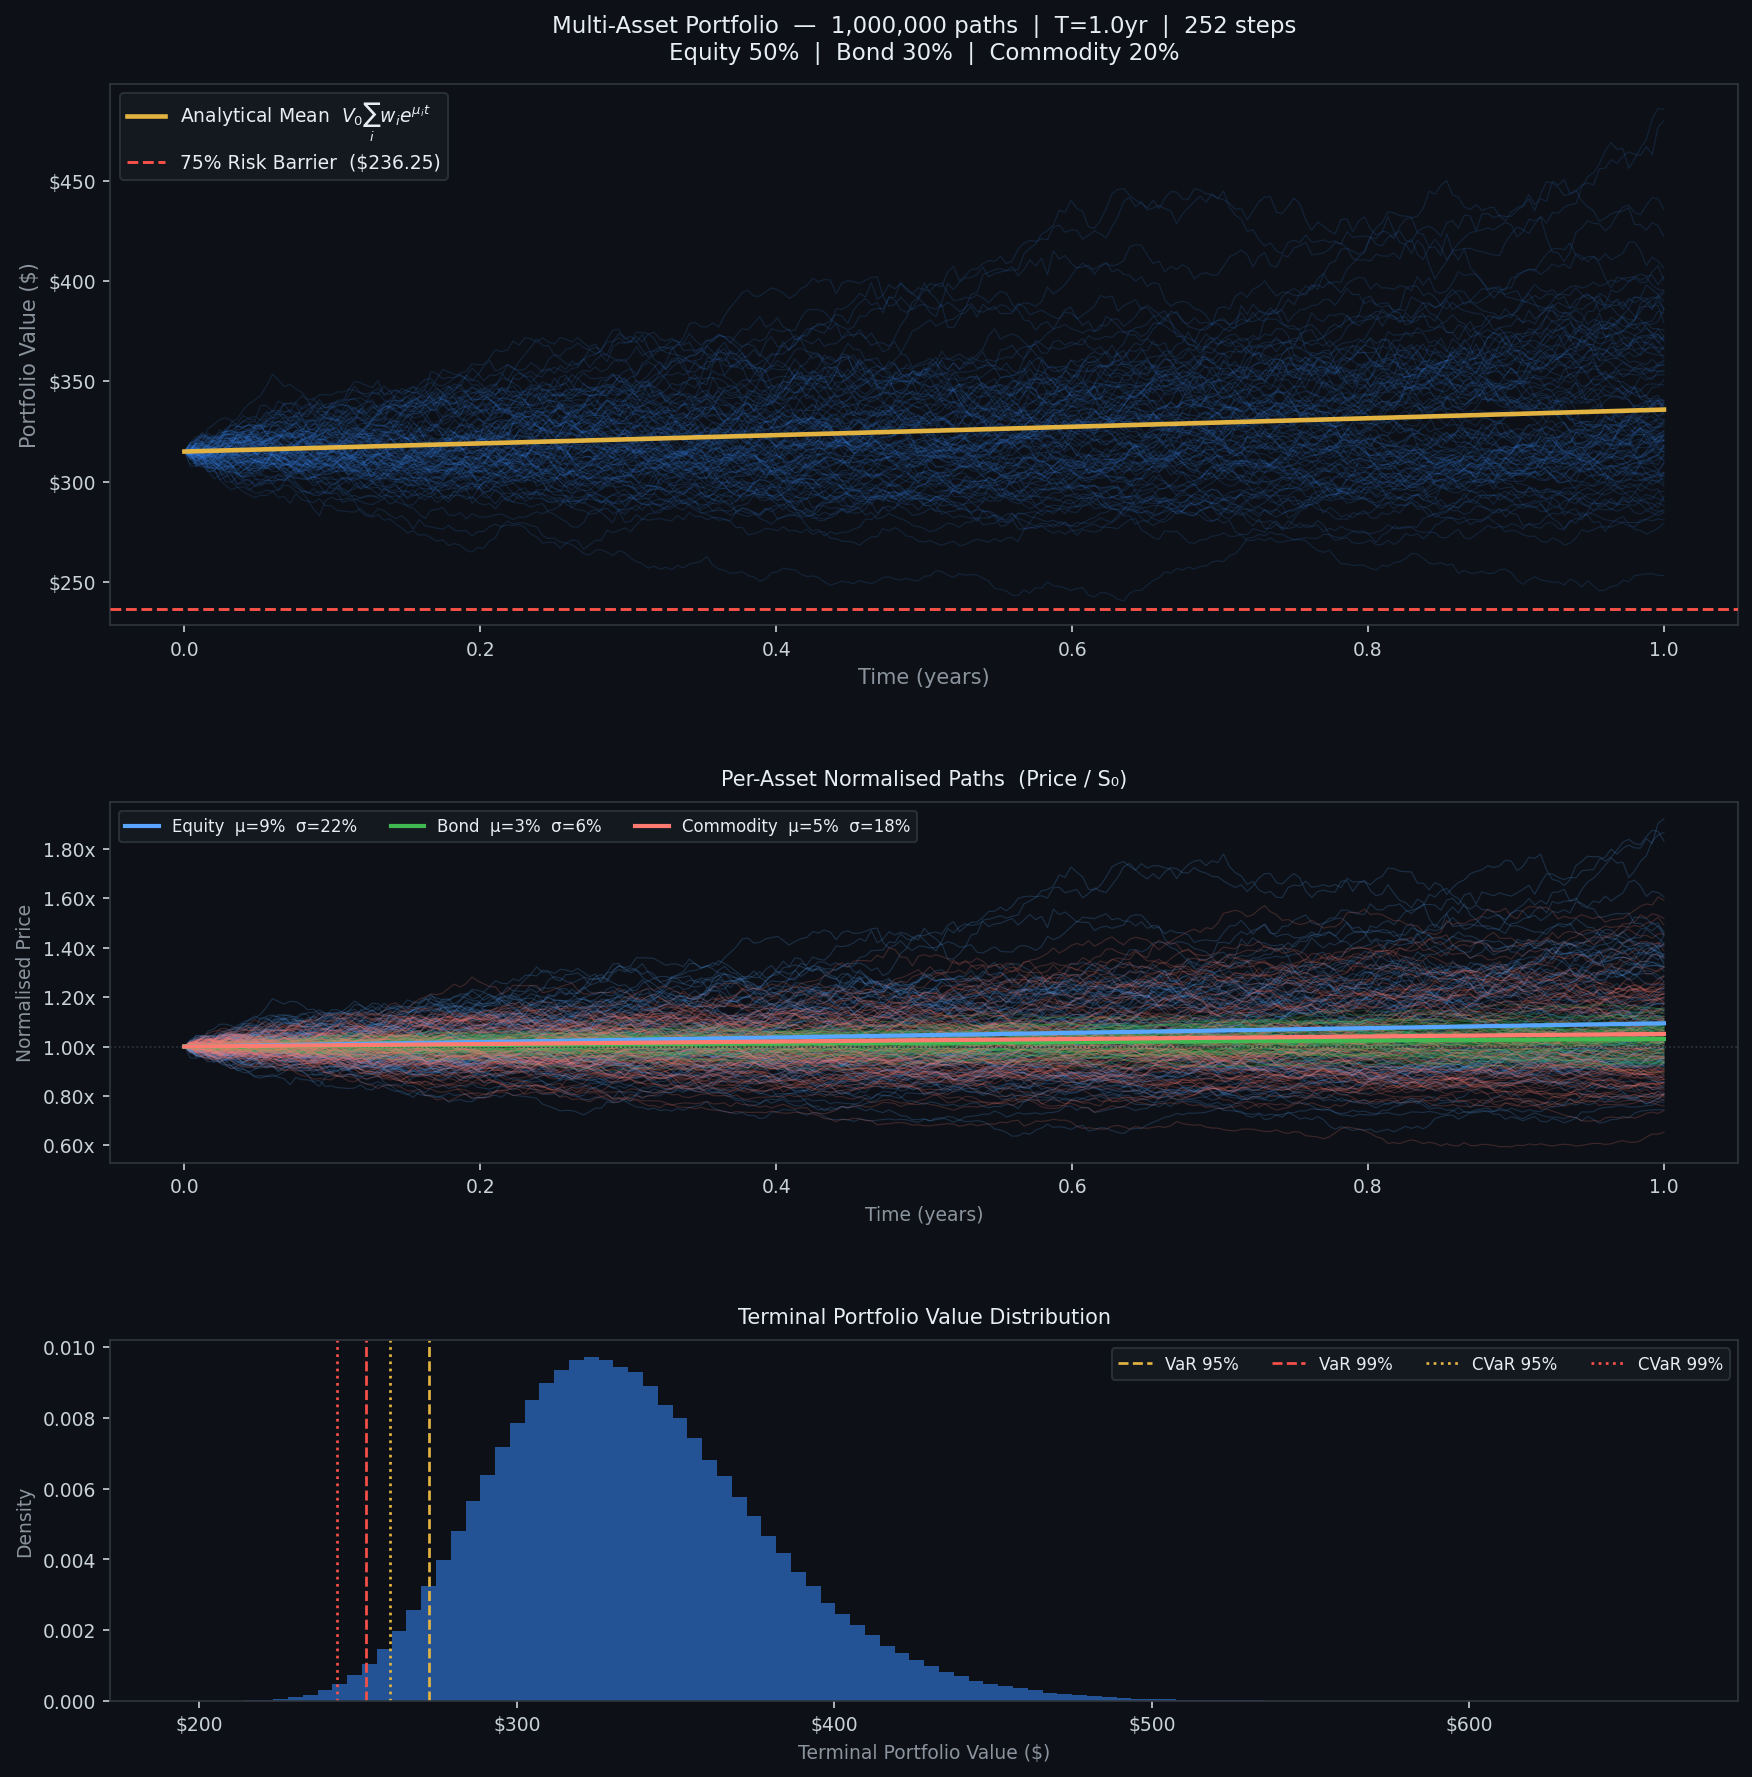
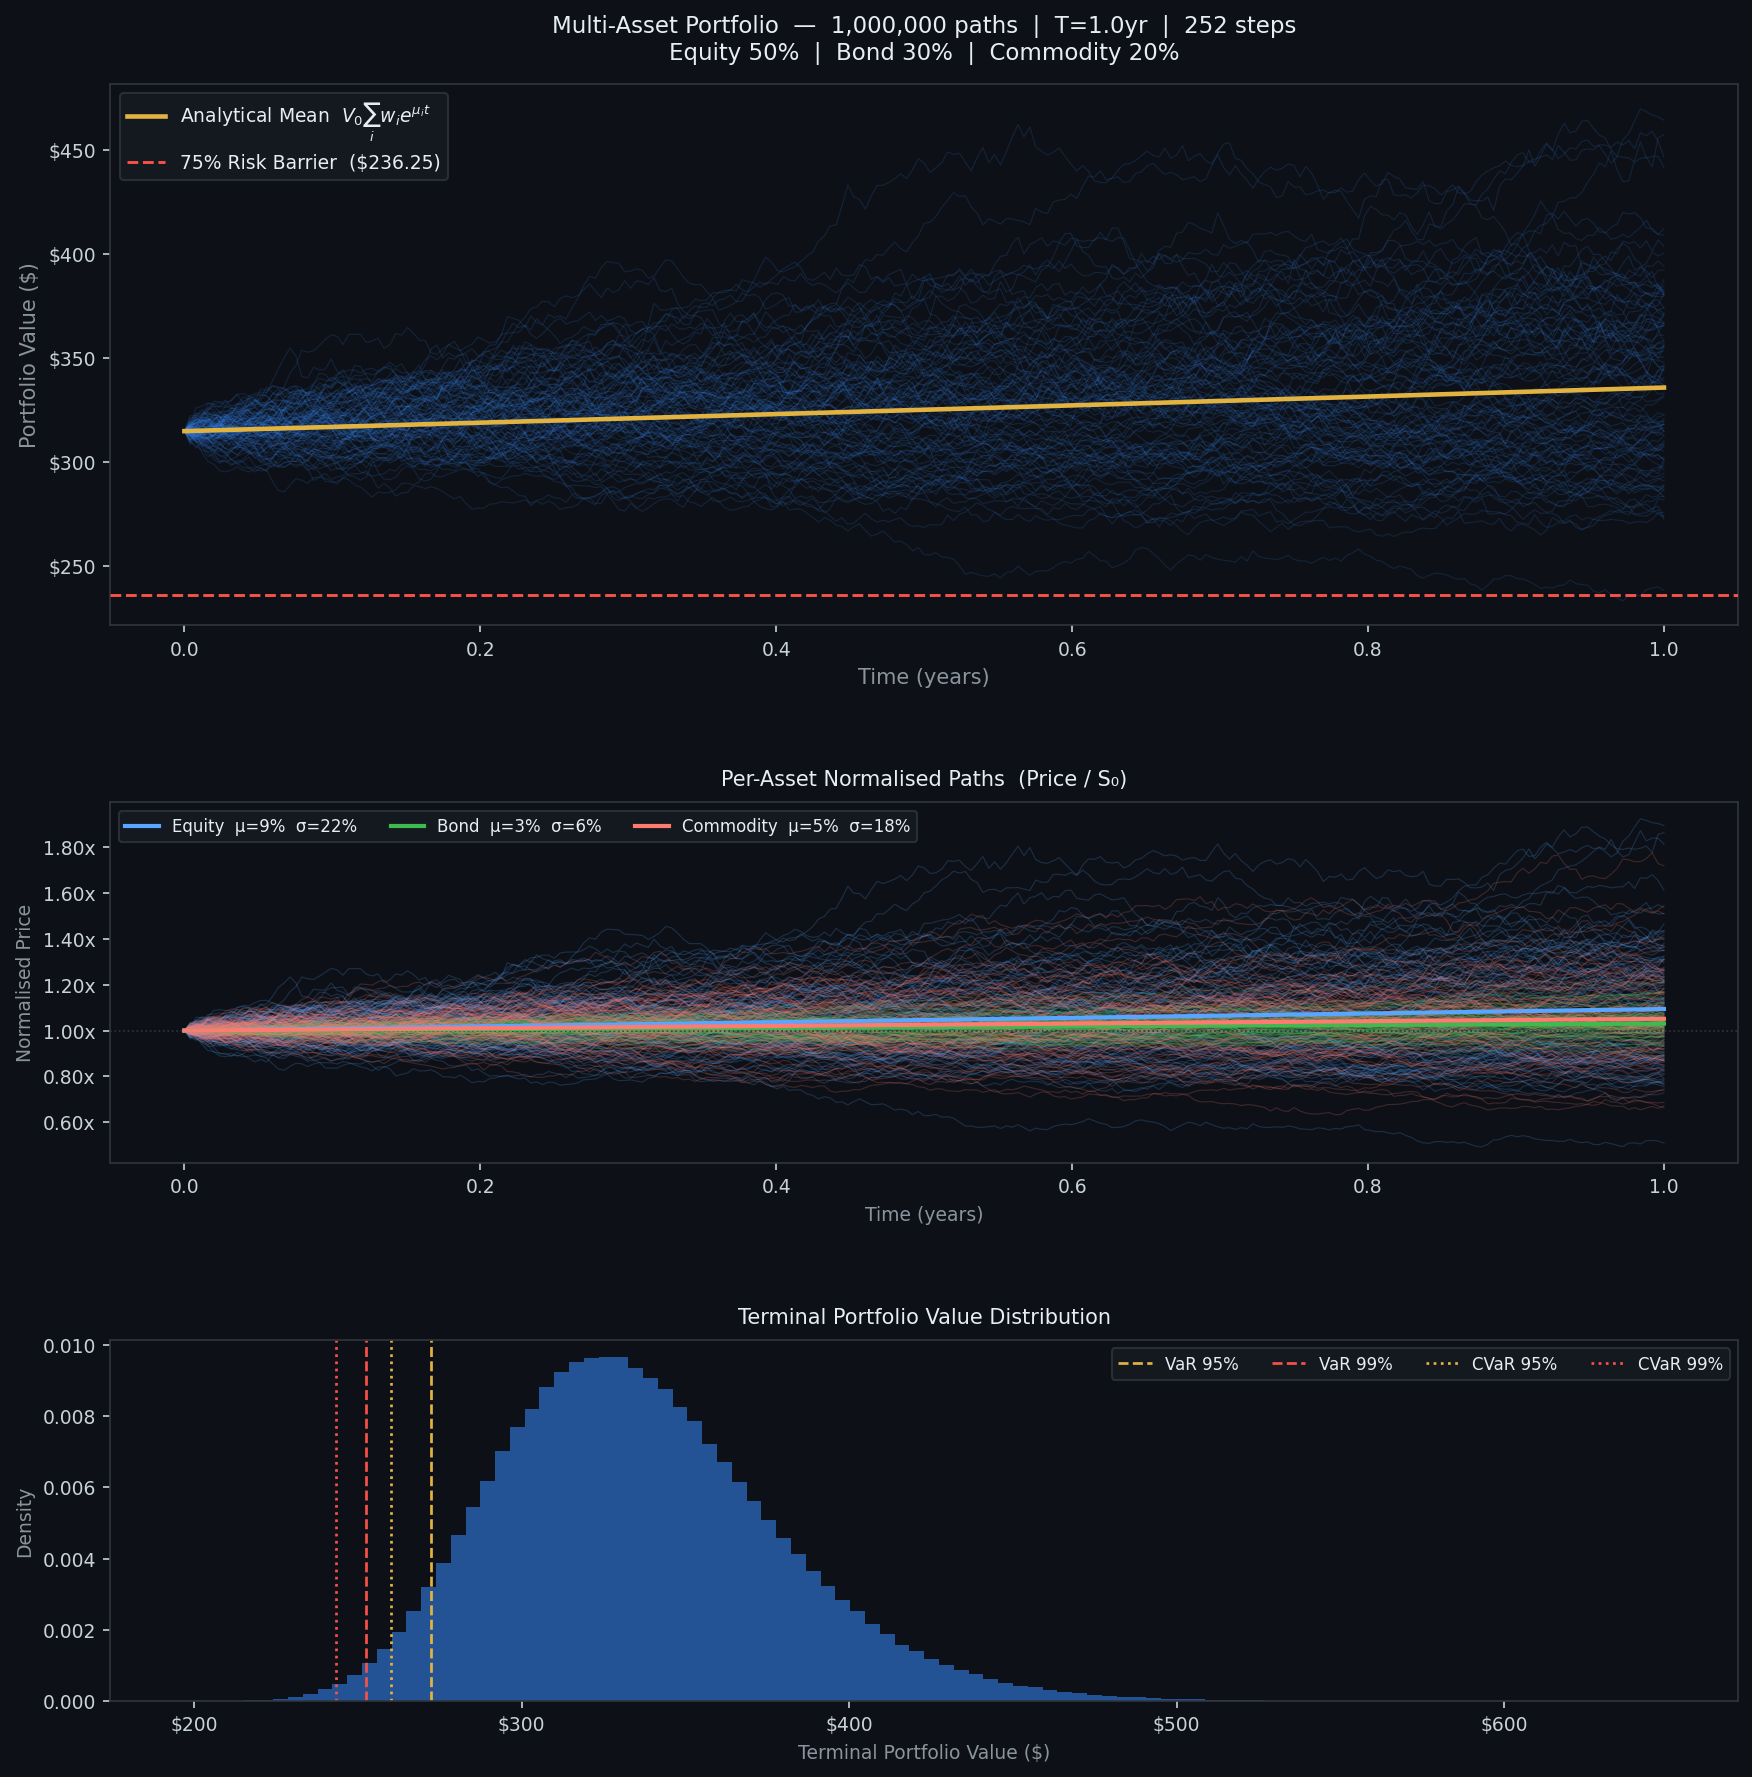
feat: define rebalancing frequency configuration

diff --git a/simulator.py b/simulator.py
@@ -16,6 +16,23 @@ import numpy as np
 
 
 # ---------------------------------------------------------------------------
+# Rebalancing Frequency Constants
+# ---------------------------------------------------------------------------
+# All values assume n_steps=252 (one trading year).  Pass an integer directly
+# if your simulation uses a different step count.
+
+REBAL_FREQ: dict[str, Optional[int]] = {
+    "daily":      1,
+    "weekly":     5,
+    "monthly":   21,
+    "quarterly": 63,
+    "semiannual": 126,
+    "annual":    252,
+    "never":    None,
+}
+
+
+# ---------------------------------------------------------------------------
 # Validation Helpers
 # ---------------------------------------------------------------------------
 